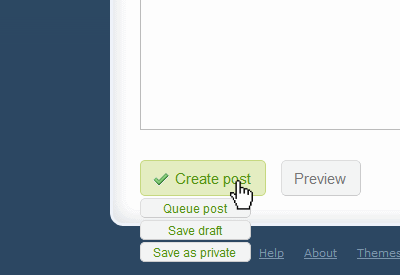
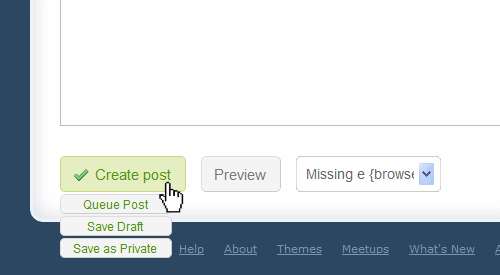
Add extra blog select field nearer to posting buttons

diff --git a/chrome/options.html b/chrome/options.html
@@ -744,6 +744,7 @@ function loadSettings() {
          loadCheck(frm,'MissingE_postingFixes_uploaderToggle',1);
          loadCheck(frm,'MissingE_postingFixes_addUploader',1);
          loadCheck(frm,'MissingE_postingFixes_quickButtons',1);
+         loadCheck(frm,'MissingE_postingFixes_blogSelect',0);
       }
       else if (v == "reblogYourself") {
          loadCheck(frm,'MissingE_reblogYourself_postPage',1);
@@ -1088,6 +1089,7 @@ If you enjoy this extension, please consider <a target="_blank" href="https://ww
 <tr><td colspan="2" class="even">Allow switching back to uploading images on photo posts<br /><ul><li><small>By default, Tumblr allows you to switch to a URL with a "<em>Use a URL instead</em>" option, this will allow you to switch back with a "<em>Upload images instead</em>" option.</small></li></ul></td><td class="even"><input type="checkbox" name="MissingE_postingFixes_uploaderToggle" value="0" checked="checked" onchange="doSetting(this,false);" /></td></tr>
 <tr><td class="odd" colspan="2">Allow inline image uploading for all post types (not just text posts)<br /><ul><li><small>Adds an "<em><strong>+ Upload Photo</strong></em>" option to all posting pages (including the Tumblr <a href="http://www.tumblr.com/goodies" target="_blank">bookmarklet</a>)</small></li><li><small>Much like the built-in "<strong><em>+ Upload Photo</em></strong>" options, these don't always load when Tumblr is suffering from errors.</small></li></ul></td><td class="odd"><input type="checkbox" name="MissingE_postingFixes_addUploader" value="0" checked="checked" onchange="doSetting(this,false);" /></td></tr>
 <tr><td colspan="2" class="even">Add quick "<em>Queue Post</em>" and "<em>Save Draft</em>" buttons when posting (see screenshot)</td><td class="even"><input type="checkbox" name="MissingE_postingFixes_quickButtons" value="0" checked="checked" onchange="doSetting(this,false);" /></td></tr>
+<tr><td colspan="2" class="odd">Add extra <em>"Post to"</em> menu (for selecting Tumblr blog to post to) nearer to new post publish buttons (see screenshot)</td><td class="odd"><input type="checkbox" name="MissingE_postingFixes_blogSelect" value="0" checked="checked" onchange="doSetting(this,false);" /></td></tr>
 </table>
 </form>
 </div>

diff --git a/chrome/postingFixes/postingFixes.js b/chrome/postingFixes/postingFixes.js
@@ -110,6 +110,22 @@ chrome.extension.sendRequest({greeting: "settings", component: "postingFixes"},
       }
    });
 
+   if (postingFixes_settings.blogSelect === 1 &&
+       $('#channel_id').length > 0) {
+      var extrachan = $('<select id="extra_channel"></select>')
+                        .insertAfter('#preview_button');
+      extrachan.append($('#channel_id').html());
+      extrachan.val($('#channel_id').val());
+      extrachan.bind('change',function() {
+         $('#channel_id').val($(this).val());
+         var evt = document.createEvent("HTMLEvents");
+         evt.initEvent("change", false, true);
+         document.getElementById('channel_id').dispatchEvent(evt);
+      });
+      $('#channel_id').bind('change',function() {
+         extrachan.val($(this).val());
+      });
+   }
    if (postingFixes_settings.quickButtons === 1 &&
        $('#post_state').length > 0 &&
        $('#post_state')

diff --git a/chrome/background.html b/chrome/background.html
@@ -662,6 +662,7 @@ chrome.extension.onRequest.addListener(function(request, sender, sendResponse) {
             settings.uploaderToggle = getStorage("MissingE_postingFixes_uploaderToggle",1);
             settings.addUploader = getStorage("MissingE_postingFixes_addUploader",1);
             settings.quickButtons = getStorage("MissingE_postingFixes_quickButtons",1);
+            settings.blogSelect = getStorage("MissingE_postingFixes_blogSelect",0);
             break;
          case "unfollower":
          case "followChecker":

diff --git a/chrome/postingFixes/postingFixes.css b/chrome/postingFixes/postingFixes.css
@@ -46,3 +46,17 @@ display:none;
 visibility:visible;
 display:block;
 }
+
+#post_controls #extra_channel {
+width:145px;
+margin-left:15px;
+font:14px Arial,Helvetica;
+color:#666;
+padding:5px;
+height:36px;
+vertical-align:top;
+border-radius:5px;
+border:1px solid #DDD;
+border-top:1px solid #CCC;
+border-bottom:1px solid #CCC;
+}
